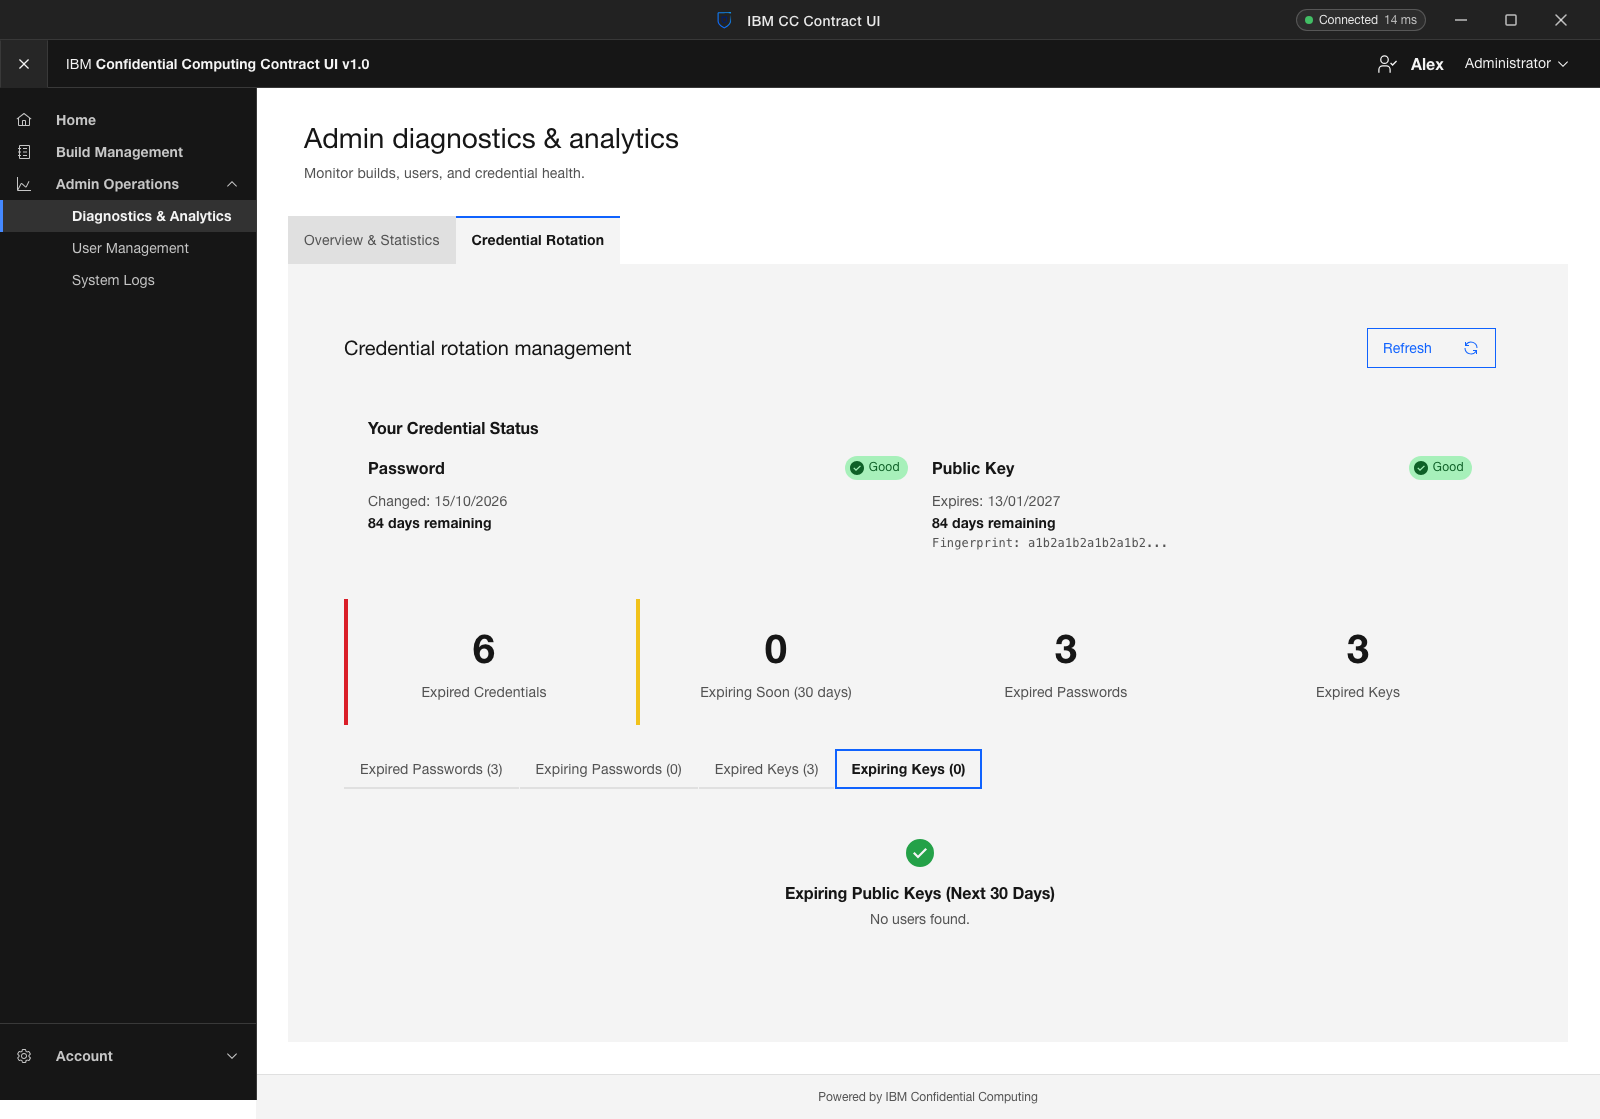
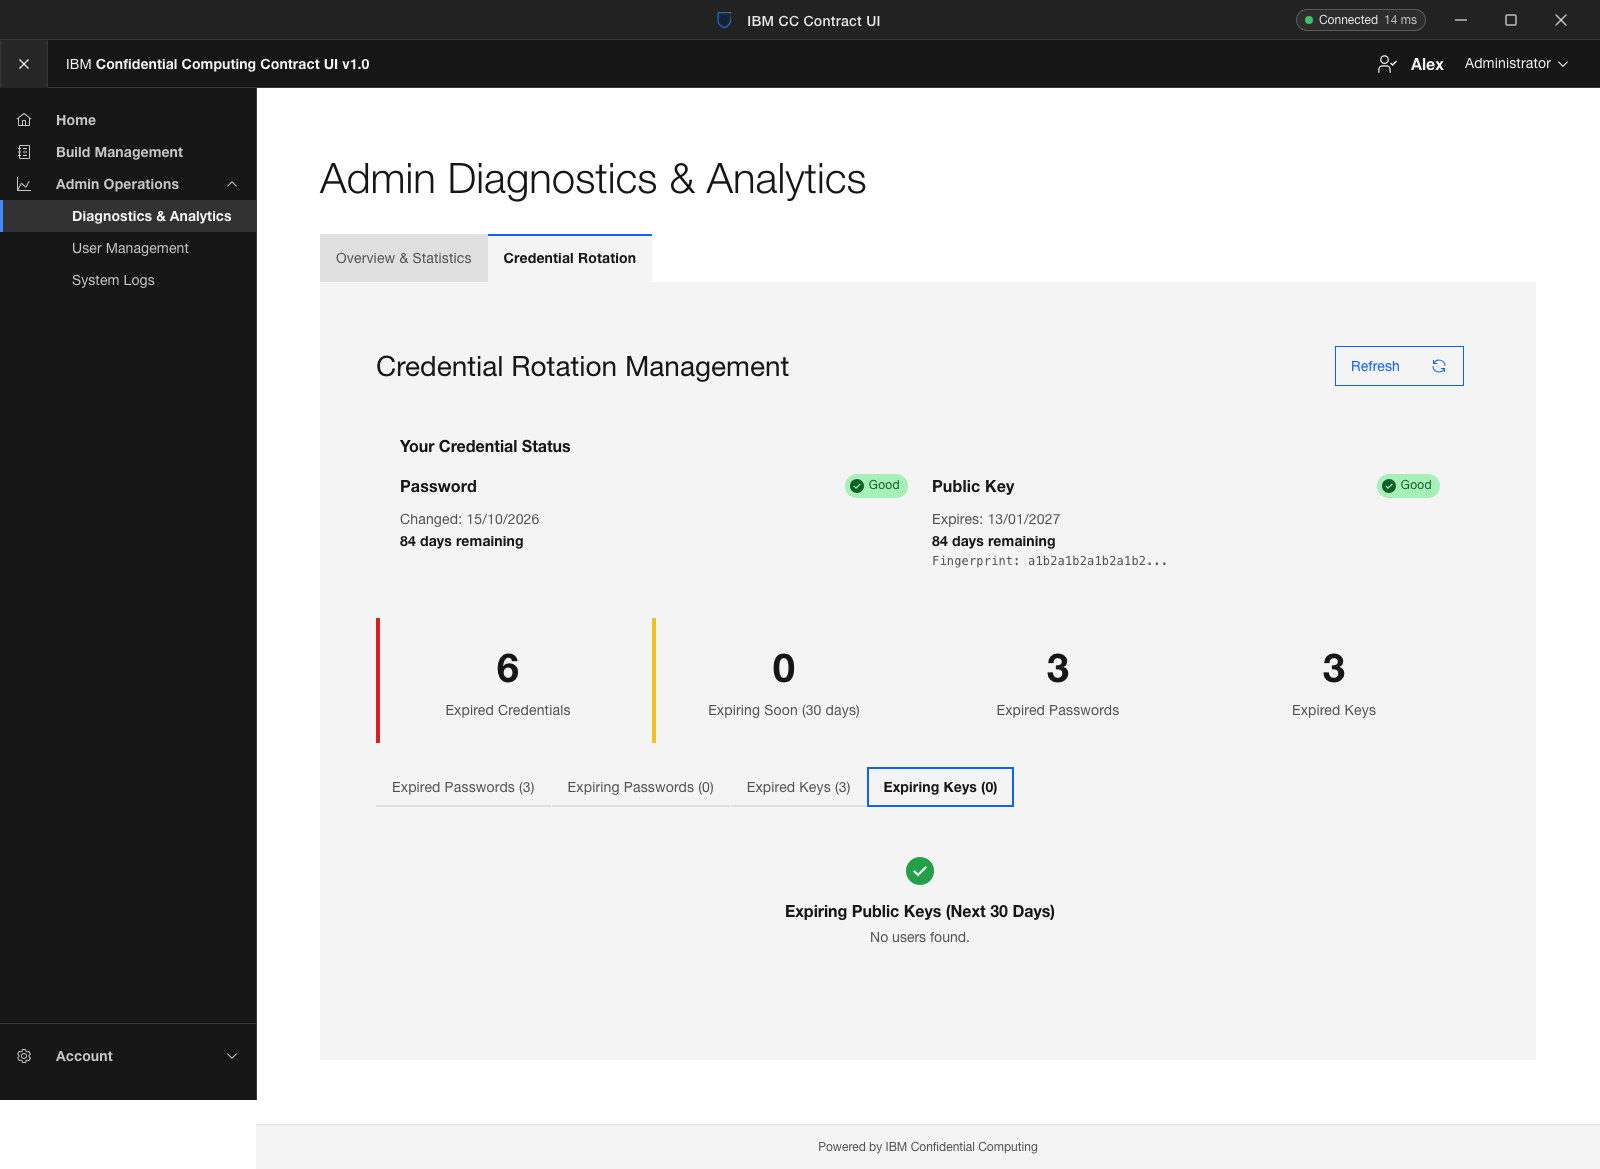
docs(ui): compare isolated analytics rework with public main

diff --git a/review-assets/analytics/README.md b/review-assets/analytics/README.md
@@ -2,11 +2,11 @@
 
 The overview prioritizes credential issues, groups build/user metrics, and uses readable horizontal role charts. Credential health replaces four nested tabs with credential/status filters, searchable accounts and confirmed bulk actions.
 
-Before: the [heading PR #101](https://github.com/ibm-hyper-protect/contract-ui/pull/101) plus public main `4800b92` (baseline `fdb5cd1`). After: analytics commit `6a35dcb` on `fix/analytics-dashboard-carbon`. This follow-up depends on the shared header from #101 and has no multi-key backend dependency.
+Before: public main `4800b929ddb4c79705b6593fdda5b2bafb50ddd2`. After: [Analytics commit `04c075e`](https://github.com/niklasladehoff/contract-ui/commit/04c075ee4252b17fafd76f851d81bc09bb0ef18c) on `fix/analytics-dashboard-isolated`. This is one commit directly on public main, changing six Analytics files. It has no dependency on the page-heading or multi-key PRs. Related: [issue #102](https://github.com/ibm-hyper-protect/contract-ui/issues/102).
 
 Actual React/Carbon views with identical example accounts and mocked API responses, captured at a 1600 × 1100 viewport. The scrollable content area is expanded equally in both versions so full charts and legends are visible. No real central account data is shown, and credential operations were tested only against mocks.
 
-Local validation passes: production build, nine credential expiry tests, 13 browser behavior/state checks, and 16 responsive/theme combinations. The API services, auth stores, IPC and main-process code are unchanged.
+Local validation passes: production build, nine credential expiry tests, 13 browser behavior/state checks, and 16 responsive/theme combinations. Global heading styles, other pages, API services, auth stores, IPC, main-process code and dependencies match public main exactly.
 
 ## Analytics overview
 
